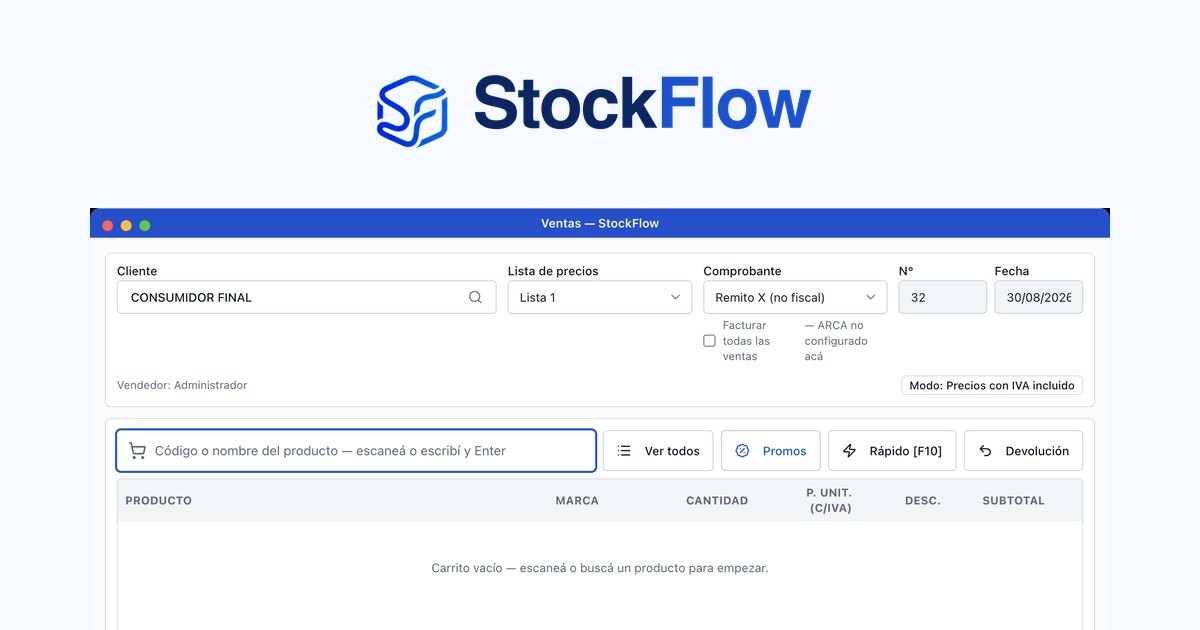
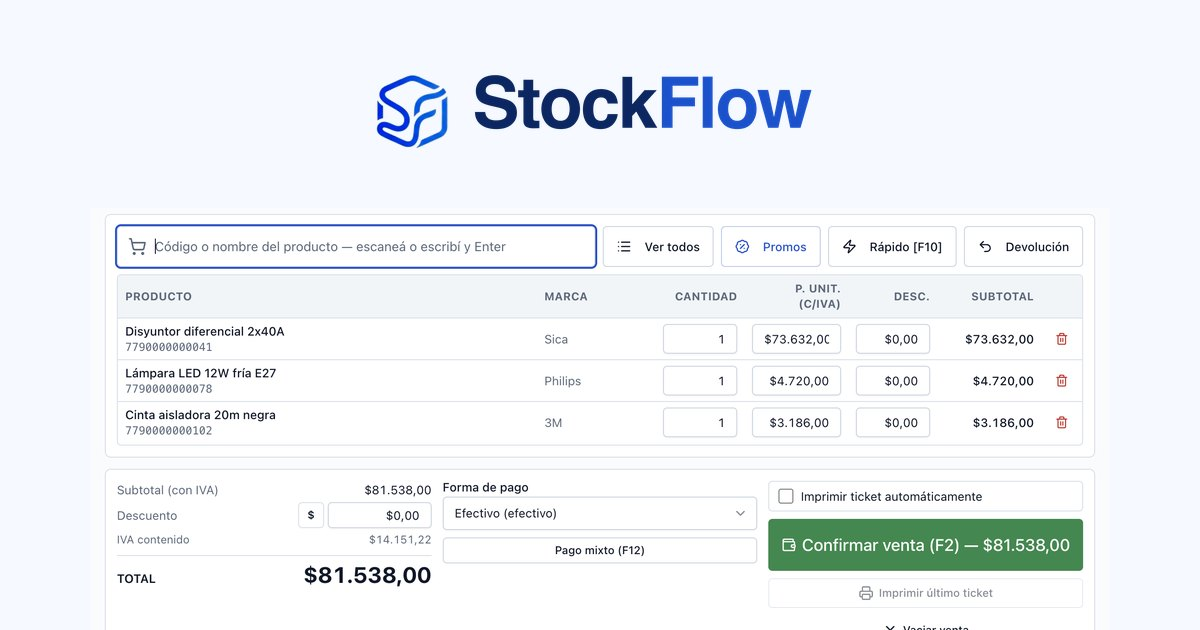
feat(landing): Ventas con carrito cargado, recortada sin la franja de ARCA
img/pdv.png ahora es el recorte de v4-02-carrito.png (fuente en src-shots/)
desde justo arriba del buscador: quedan buscador, los 3 artículos con código y
marca, y el pie con subtotal, IVA contenido y el botón verde de confirmar. La
franja Cliente/Comprobante con '— ARCA no configurado acá' queda afuera.

Notas del showcase de Ventas con lo visible: código y marca, IVA contenido
$14.151,22 discriminado, F2 con total $81.538,00. og.jpg regenerado desde el
recorte (ya no muestra el carrito vacío).

diff --git a/marketing/landing/artifact3.html b/marketing/landing/artifact3.html
@@ -382,7 +382,7 @@ h1.big{font-size:clamp(36px,4.6vw,54px);margin:20px 0 0;} h1.big .hl{color:var(-
  <div class="shotwrap">
   <div class="cfbox">
    <div class="cfrow">
-    <div class="cf" id="cf"><figure class='cf-card' data-i='0'><div class='cwin'><div class='gbar'><span class='gdz'><i></i><i></i><i></i></span><span class='gbt'>StockFlow — Pantalla principal</span><span class='gzoom'>⤢</span></div><img loading='lazy' src='assets/panel-principal-1400q80.webp' width='1400' height='778' alt='Pantalla principal de StockFlow con todos los módulos del sistema'/></div></figure><figure class='cf-card' data-i='1'><div class='cwin'><div class='gbar'><span class='gdz'><i></i><i></i><i></i></span><span class='gbt'>StockFlow — Ventas — Punto de venta</span><span class='gzoom'>⤢</span></div><img loading='lazy' src='assets/pdv-1400q80.webp' width='1400' height='916' alt='Punto de venta de StockFlow cobrando artículos de ferretería'/></div></figure><figure class='cf-card' data-i='2'><div class='cwin'><div class='gbar'><span class='gdz'><i></i><i></i><i></i></span><span class='gbt'>StockFlow — Artículos y precios</span><span class='gzoom'>⤢</span></div><img loading='lazy' src='assets/articulos-1400q80.webp' width='1400' height='887' alt='Listado de artículos de ferretería con stock, familias y tres listas de precios'/></div></figure><figure class='cf-card' data-i='3'><div class='cwin'><div class='gbar'><span class='gdz'><i></i><i></i><i></i></span><span class='gbt'>StockFlow — Cuentas corrientes</span><span class='gzoom'>⤢</span></div><img loading='lazy' src='assets/ctacte-1400q80.webp' width='1400' height='916' alt='Cuentas corrientes con los saldos de cada cliente al día'/></div></figure><figure class='cf-card' data-i='4'><div class='cwin'><div class='gbar'><span class='gdz'><i></i><i></i><i></i></span><span class='gbt'>StockFlow — Presupuestos</span><span class='gzoom'>⤢</span></div><img loading='lazy' src='assets/presupuestos-crear-1400q80.webp' width='1400' height='916' alt='Pantalla de presupuestos de StockFlow listos para convertir en venta'/></div></figure><figure class='cf-card' data-i='5'><div class='cwin'><div class='gbar'><span class='gdz'><i></i><i></i><i></i></span><span class='gbt'>StockFlow — Estadísticas</span><span class='gzoom'>⤢</span></div><img loading='lazy' src='assets/estadisticas-1400q80.webp' width='1400' height='916' alt='Estadísticas de ventas con margen bruto y ticket promedio'/></div></figure><figure class='cf-card' data-i='6'><div class='cwin'><div class='gbar'><span class='gdz'><i></i><i></i><i></i></span><span class='gbt'>StockFlow — Caja diaria</span><span class='gzoom'>⤢</span></div><img loading='lazy' src='assets/caja-abierta-resumen-1400q80.webp' width='1400' height='916' alt='Caja diaria con el efectivo esperado y la comisión de tarjeta descontada'/></div></figure><figure class='cf-card' data-i='7'><div class='cwin'><div class='gbar'><span class='gdz'><i></i><i></i><i></i></span><span class='gbt'>StockFlow — Contabilidad y Libro IVA</span><span class='gzoom'>⤢</span></div><img loading='lazy' src='assets/contabilidad-resumen-1400q80.webp' width='1400' height='916' alt='Resumen contable y Libro IVA generados por StockFlow'/></div></figure><figure class='cf-card' data-i='8'><div class='cwin'><div class='gbar'><span class='gdz'><i></i><i></i><i></i></span><span class='gbt'>StockFlow — Compras</span><span class='gzoom'>⤢</span></div><img loading='lazy' src='assets/compras-principal-1400q80.webp' width='1400' height='916' alt='Pantalla de compras con órdenes a proveedores'/></div></figure><figure class='cf-card' data-i='9'><div class='cwin'><div class='gbar'><span class='gdz'><i></i><i></i><i></i></span><span class='gbt'>StockFlow — Clientes</span><span class='gzoom'>⤢</span></div><img loading='lazy' src='assets/clientes-listado-1400q80.webp' width='1400' height='916' alt='Listado de clientes del comercio en StockFlow'/></div></figure></div>
+    <div class="cf" id="cf"><figure class='cf-card' data-i='0'><div class='cwin'><div class='gbar'><span class='gdz'><i></i><i></i><i></i></span><span class='gbt'>StockFlow — Pantalla principal</span><span class='gzoom'>⤢</span></div><img loading='lazy' src='assets/panel-principal-1400q80.webp' width='1400' height='778' alt='Pantalla principal de StockFlow con todos los módulos del sistema'/></div></figure><figure class='cf-card' data-i='1'><div class='cwin'><div class='gbar'><span class='gdz'><i></i><i></i><i></i></span><span class='gbt'>StockFlow — Ventas — Punto de venta</span><span class='gzoom'>⤢</span></div><img loading='lazy' src='assets/pdv-1400q80.webp' width='1400' height='636' alt='Punto de venta de StockFlow cobrando artículos de ferretería'/></div></figure><figure class='cf-card' data-i='2'><div class='cwin'><div class='gbar'><span class='gdz'><i></i><i></i><i></i></span><span class='gbt'>StockFlow — Artículos y precios</span><span class='gzoom'>⤢</span></div><img loading='lazy' src='assets/articulos-1400q80.webp' width='1400' height='887' alt='Listado de artículos de ferretería con stock, familias y tres listas de precios'/></div></figure><figure class='cf-card' data-i='3'><div class='cwin'><div class='gbar'><span class='gdz'><i></i><i></i><i></i></span><span class='gbt'>StockFlow — Cuentas corrientes</span><span class='gzoom'>⤢</span></div><img loading='lazy' src='assets/ctacte-1400q80.webp' width='1400' height='916' alt='Cuentas corrientes con los saldos de cada cliente al día'/></div></figure><figure class='cf-card' data-i='4'><div class='cwin'><div class='gbar'><span class='gdz'><i></i><i></i><i></i></span><span class='gbt'>StockFlow — Presupuestos</span><span class='gzoom'>⤢</span></div><img loading='lazy' src='assets/presupuestos-crear-1400q80.webp' width='1400' height='916' alt='Pantalla de presupuestos de StockFlow listos para convertir en venta'/></div></figure><figure class='cf-card' data-i='5'><div class='cwin'><div class='gbar'><span class='gdz'><i></i><i></i><i></i></span><span class='gbt'>StockFlow — Estadísticas</span><span class='gzoom'>⤢</span></div><img loading='lazy' src='assets/estadisticas-1400q80.webp' width='1400' height='916' alt='Estadísticas de ventas con margen bruto y ticket promedio'/></div></figure><figure class='cf-card' data-i='6'><div class='cwin'><div class='gbar'><span class='gdz'><i></i><i></i><i></i></span><span class='gbt'>StockFlow — Caja diaria</span><span class='gzoom'>⤢</span></div><img loading='lazy' src='assets/caja-abierta-resumen-1400q80.webp' width='1400' height='916' alt='Caja diaria con el efectivo esperado y la comisión de tarjeta descontada'/></div></figure><figure class='cf-card' data-i='7'><div class='cwin'><div class='gbar'><span class='gdz'><i></i><i></i><i></i></span><span class='gbt'>StockFlow — Contabilidad y Libro IVA</span><span class='gzoom'>⤢</span></div><img loading='lazy' src='assets/contabilidad-resumen-1400q80.webp' width='1400' height='916' alt='Resumen contable y Libro IVA generados por StockFlow'/></div></figure><figure class='cf-card' data-i='8'><div class='cwin'><div class='gbar'><span class='gdz'><i></i><i></i><i></i></span><span class='gbt'>StockFlow — Compras</span><span class='gzoom'>⤢</span></div><img loading='lazy' src='assets/compras-principal-1400q80.webp' width='1400' height='916' alt='Pantalla de compras con órdenes a proveedores'/></div></figure><figure class='cf-card' data-i='9'><div class='cwin'><div class='gbar'><span class='gdz'><i></i><i></i><i></i></span><span class='gbt'>StockFlow — Clientes</span><span class='gzoom'>⤢</span></div><img loading='lazy' src='assets/clientes-listado-1400q80.webp' width='1400' height='916' alt='Listado de clientes del comercio en StockFlow'/></div></figure></div>
    </div>
    <div class="gdots" id="gdots"><button class='gdot' data-i='0' aria-label='Pantalla 1'></button><button class='gdot' data-i='1' aria-label='Pantalla 2'></button><button class='gdot' data-i='2' aria-label='Pantalla 3'></button><button class='gdot' data-i='3' aria-label='Pantalla 4'></button><button class='gdot' data-i='4' aria-label='Pantalla 5'></button><button class='gdot' data-i='5' aria-label='Pantalla 6'></button><button class='gdot' data-i='6' aria-label='Pantalla 7'></button><button class='gdot' data-i='7' aria-label='Pantalla 8'></button><button class='gdot' data-i='8' aria-label='Pantalla 9'></button><button class='gdot' data-i='9' aria-label='Pantalla 10'></button></div>
   </div>
@@ -432,7 +432,7 @@ h1.big{font-size:clamp(36px,4.6vw,54px);margin:20px 0 0;} h1.big .hl{color:var(-
   <nav class="anchors"><a href="#sc-ventas">Ventas</a><a href="#sc-precios">Precios</a><a href="#sc-cuentas">Cuentas</a><a href="#sc-caja">Caja</a><a href="#sc-presu">Presupuestos</a><a href="#sc-ganas">Rentabilidad</a></nav>
  </div>
  <div class="sc-wrap">
- <div class='show sc rv' id='sc-ventas'><div class='st'><span class='sc-k'>Punto de venta</span><h3>Cobrá en segundos, con el IVA ya calculado.</h3><p>Escaneás el código o escribís el nombre y el producto entra con su precio. Confirmás con F2 y el comprobante queda listo. Si se corta internet, seguís cobrando sin interrupciones.</p><span class='sc-solve'>Sin demoras en el mostrador</span><ul class='sc-notes'><li><b>Escaneá o escribí y Enter</b> — el producto entra con su precio de lista</li><li><b>F2 confirma, F12 pago mixto</b> — efectivo y tarjeta en una misma venta</li><li><b>Precios con IVA incluido</b> — sin cuentas manuales en el mostrador</li></ul></div><div class='si'><figure class='cwin'><div class='gbar'><span class='gdz'><i></i><i></i><i></i></span><span class='gbt'>StockFlow — Ventas</span></div><img loading='lazy' src='assets/pdv-1400q80.webp' width='1400' height='916' alt='Punto de venta de StockFlow listo para cobrar, con búsqueda por código y pago mixto'/></figure></div></div>
+ <div class='show sc rv' id='sc-ventas'><div class='st'><span class='sc-k'>Punto de venta</span><h3>Cobrá en segundos, con el IVA ya calculado.</h3><p>Escaneás el código o escribís el nombre y el producto entra con su precio. Confirmás con F2 y el comprobante queda listo. Si se corta internet, seguís cobrando sin interrupciones.</p><span class='sc-solve'>Sin demoras en el mostrador</span><ul class='sc-notes'><li><b>Código y marca a la vista</b> — tres artículos cargados escaneando o por nombre</li><li><b>IVA contenido discriminado</b> — $&#8202;14.151,22 ya calculado, sin cuentas manuales</li><li><b>F2 y listo</b> — confirmás con el total exacto: $&#8202;81.538,00</li></ul></div><div class='si'><figure class='cwin'><div class='gbar'><span class='gdz'><i></i><i></i><i></i></span><span class='gbt'>StockFlow — Ventas</span></div><img loading='lazy' src='assets/pdv-1400q80.webp' width='1400' height='636' alt='Punto de venta de StockFlow con tres artículos cargados, IVA discriminado y el total listo para confirmar con F2'/></figure></div></div>
  <div class='show sc rv' id='sc-precios'><div class='st'><span class='sc-k'>Actualización de precios</span><h3>Actualizá toda la lista en un clic.</h3><p>Seleccionás la lista, ingresás el porcentaje y ves cada cambio antes de confirmarlo: precio actual, nuevo y diferencia, artículo por artículo.</p><span class='sc-solve'>Sin repreciar artículo por artículo</span><ul class='sc-notes'><li><b>+18% con vista previa</b> — actual, nuevo y diferencia de cada artículo</li><li><b>44 cambios en un clic</b> — revisás y confirmás antes de aplicar</li><li><b>Hasta 3 listas</b> — mostrador, mayorista y especial</li></ul></div><div class='si'><figure class='cwin'><div class='gbar'><span class='gdz'><i></i><i></i><i></i></span><span class='gbt'>StockFlow — Actualización de precios</span></div><img loading='lazy' src='assets/precios-preview-1200q64.webp' width='1200' height='785' alt='Vista previa de actualización de precios en StockFlow: precio actual, nuevo y diferencia por artículo'/></figure></div></div>
  <div class='show sc rv' id='sc-cuentas'><div class='st'><span class='sc-k'>Cuentas corrientes</span><h3>Sabés quién te debe, cuánto y desde cuándo.</h3><p>Cada cliente con su saldo actualizado. Registrás la cobranza y la cuenta se ajusta automáticamente, sin deudas anotadas en papeles sueltos.</p><span class='sc-solve'>Sin cuadernos de deuda</span><ul class='sc-notes'><li><b>$&#8202;13.400</b> — el saldo de cada cliente, siempre a la vista</li><li><b>Último pago y comprobantes</b> — cada cuenta con su historia completa</li><li><b>5 con saldo</b> — sabés a quién cobrarle de un vistazo</li></ul></div><div class='si'><figure class='cwin'><div class='gbar'><span class='gdz'><i></i><i></i><i></i></span><span class='gbt'>StockFlow — Cuentas Corrientes</span></div><img loading='lazy' src='assets/ctacte-1400q80.webp' width='1400' height='916' alt='Cuentas corrientes de StockFlow con cinco clientes con saldo y su último pago'/></figure></div></div>
  <div class='show sc rv' id='sc-caja'><div class='st'><span class='sc-k'>Caja y arqueo</span><h3>Al cierre sabés exactamente cuánto debe haber en caja.</h3><p>Cada medio de pago discriminado, con la comisión de tarjeta ya descontada y el efectivo esperado calculado. Cerrás la caja con el monto exacto, sin estimaciones.</p><span class='sc-solve'>Sin descuadres al cierre</span><ul class='sc-notes'><li><b>$&#8202;170.000 esperados en el cajón</b> — el monto exacto para el arqueo</li><li><b>Comisión descontada</b> — el neto real de cada medio de pago</li><li><b>Cada movimiento con su hora</b> — ventas, señas y retiros del día</li></ul></div><div class='si'><figure class='cwin'><div class='gbar'><span class='gdz'><i></i><i></i><i></i></span><span class='gbt'>StockFlow — Caja diaria</span></div><img loading='lazy' src='assets/caja-abierta-resumen-1400q72.webp' width='1400' height='916' alt='Caja diaria de StockFlow con efectivo esperado, desglose por medio de pago y comisión descontada'/></figure></div></div>

diff --git a/marketing/landing/index3.html b/marketing/landing/index3.html
@@ -382,7 +382,7 @@ h1.big{font-size:clamp(36px,4.6vw,54px);margin:20px 0 0;} h1.big .hl{color:var(-
  <div class="shotwrap">
   <div class="cfbox">
    <div class="cfrow">
-    <div class="cf" id="cf"><figure class='cf-card' data-i='0'><div class='cwin'><div class='gbar'><span class='gdz'><i></i><i></i><i></i></span><span class='gbt'>StockFlow — Pantalla principal</span><span class='gzoom'>⤢</span></div><img loading='lazy' src='assets/panel-principal-1400q80.webp' width='1400' height='778' alt='Pantalla principal de StockFlow con todos los módulos del sistema'/></div></figure><figure class='cf-card' data-i='1'><div class='cwin'><div class='gbar'><span class='gdz'><i></i><i></i><i></i></span><span class='gbt'>StockFlow — Ventas — Punto de venta</span><span class='gzoom'>⤢</span></div><img loading='lazy' src='assets/pdv-1400q80.webp' width='1400' height='916' alt='Punto de venta de StockFlow cobrando artículos de ferretería'/></div></figure><figure class='cf-card' data-i='2'><div class='cwin'><div class='gbar'><span class='gdz'><i></i><i></i><i></i></span><span class='gbt'>StockFlow — Artículos y precios</span><span class='gzoom'>⤢</span></div><img loading='lazy' src='assets/articulos-1400q80.webp' width='1400' height='887' alt='Listado de artículos de ferretería con stock, familias y tres listas de precios'/></div></figure><figure class='cf-card' data-i='3'><div class='cwin'><div class='gbar'><span class='gdz'><i></i><i></i><i></i></span><span class='gbt'>StockFlow — Cuentas corrientes</span><span class='gzoom'>⤢</span></div><img loading='lazy' src='assets/ctacte-1400q80.webp' width='1400' height='916' alt='Cuentas corrientes con los saldos de cada cliente al día'/></div></figure><figure class='cf-card' data-i='4'><div class='cwin'><div class='gbar'><span class='gdz'><i></i><i></i><i></i></span><span class='gbt'>StockFlow — Presupuestos</span><span class='gzoom'>⤢</span></div><img loading='lazy' src='assets/presupuestos-crear-1400q80.webp' width='1400' height='916' alt='Pantalla de presupuestos de StockFlow listos para convertir en venta'/></div></figure><figure class='cf-card' data-i='5'><div class='cwin'><div class='gbar'><span class='gdz'><i></i><i></i><i></i></span><span class='gbt'>StockFlow — Estadísticas</span><span class='gzoom'>⤢</span></div><img loading='lazy' src='assets/estadisticas-1400q80.webp' width='1400' height='916' alt='Estadísticas de ventas con margen bruto y ticket promedio'/></div></figure><figure class='cf-card' data-i='6'><div class='cwin'><div class='gbar'><span class='gdz'><i></i><i></i><i></i></span><span class='gbt'>StockFlow — Caja diaria</span><span class='gzoom'>⤢</span></div><img loading='lazy' src='assets/caja-abierta-resumen-1400q80.webp' width='1400' height='916' alt='Caja diaria con el efectivo esperado y la comisión de tarjeta descontada'/></div></figure><figure class='cf-card' data-i='7'><div class='cwin'><div class='gbar'><span class='gdz'><i></i><i></i><i></i></span><span class='gbt'>StockFlow — Contabilidad y Libro IVA</span><span class='gzoom'>⤢</span></div><img loading='lazy' src='assets/contabilidad-resumen-1400q80.webp' width='1400' height='916' alt='Resumen contable y Libro IVA generados por StockFlow'/></div></figure><figure class='cf-card' data-i='8'><div class='cwin'><div class='gbar'><span class='gdz'><i></i><i></i><i></i></span><span class='gbt'>StockFlow — Compras</span><span class='gzoom'>⤢</span></div><img loading='lazy' src='assets/compras-principal-1400q80.webp' width='1400' height='916' alt='Pantalla de compras con órdenes a proveedores'/></div></figure><figure class='cf-card' data-i='9'><div class='cwin'><div class='gbar'><span class='gdz'><i></i><i></i><i></i></span><span class='gbt'>StockFlow — Clientes</span><span class='gzoom'>⤢</span></div><img loading='lazy' src='assets/clientes-listado-1400q80.webp' width='1400' height='916' alt='Listado de clientes del comercio en StockFlow'/></div></figure></div>
+    <div class="cf" id="cf"><figure class='cf-card' data-i='0'><div class='cwin'><div class='gbar'><span class='gdz'><i></i><i></i><i></i></span><span class='gbt'>StockFlow — Pantalla principal</span><span class='gzoom'>⤢</span></div><img loading='lazy' src='assets/panel-principal-1400q80.webp' width='1400' height='778' alt='Pantalla principal de StockFlow con todos los módulos del sistema'/></div></figure><figure class='cf-card' data-i='1'><div class='cwin'><div class='gbar'><span class='gdz'><i></i><i></i><i></i></span><span class='gbt'>StockFlow — Ventas — Punto de venta</span><span class='gzoom'>⤢</span></div><img loading='lazy' src='assets/pdv-1400q80.webp' width='1400' height='636' alt='Punto de venta de StockFlow cobrando artículos de ferretería'/></div></figure><figure class='cf-card' data-i='2'><div class='cwin'><div class='gbar'><span class='gdz'><i></i><i></i><i></i></span><span class='gbt'>StockFlow — Artículos y precios</span><span class='gzoom'>⤢</span></div><img loading='lazy' src='assets/articulos-1400q80.webp' width='1400' height='887' alt='Listado de artículos de ferretería con stock, familias y tres listas de precios'/></div></figure><figure class='cf-card' data-i='3'><div class='cwin'><div class='gbar'><span class='gdz'><i></i><i></i><i></i></span><span class='gbt'>StockFlow — Cuentas corrientes</span><span class='gzoom'>⤢</span></div><img loading='lazy' src='assets/ctacte-1400q80.webp' width='1400' height='916' alt='Cuentas corrientes con los saldos de cada cliente al día'/></div></figure><figure class='cf-card' data-i='4'><div class='cwin'><div class='gbar'><span class='gdz'><i></i><i></i><i></i></span><span class='gbt'>StockFlow — Presupuestos</span><span class='gzoom'>⤢</span></div><img loading='lazy' src='assets/presupuestos-crear-1400q80.webp' width='1400' height='916' alt='Pantalla de presupuestos de StockFlow listos para convertir en venta'/></div></figure><figure class='cf-card' data-i='5'><div class='cwin'><div class='gbar'><span class='gdz'><i></i><i></i><i></i></span><span class='gbt'>StockFlow — Estadísticas</span><span class='gzoom'>⤢</span></div><img loading='lazy' src='assets/estadisticas-1400q80.webp' width='1400' height='916' alt='Estadísticas de ventas con margen bruto y ticket promedio'/></div></figure><figure class='cf-card' data-i='6'><div class='cwin'><div class='gbar'><span class='gdz'><i></i><i></i><i></i></span><span class='gbt'>StockFlow — Caja diaria</span><span class='gzoom'>⤢</span></div><img loading='lazy' src='assets/caja-abierta-resumen-1400q80.webp' width='1400' height='916' alt='Caja diaria con el efectivo esperado y la comisión de tarjeta descontada'/></div></figure><figure class='cf-card' data-i='7'><div class='cwin'><div class='gbar'><span class='gdz'><i></i><i></i><i></i></span><span class='gbt'>StockFlow — Contabilidad y Libro IVA</span><span class='gzoom'>⤢</span></div><img loading='lazy' src='assets/contabilidad-resumen-1400q80.webp' width='1400' height='916' alt='Resumen contable y Libro IVA generados por StockFlow'/></div></figure><figure class='cf-card' data-i='8'><div class='cwin'><div class='gbar'><span class='gdz'><i></i><i></i><i></i></span><span class='gbt'>StockFlow — Compras</span><span class='gzoom'>⤢</span></div><img loading='lazy' src='assets/compras-principal-1400q80.webp' width='1400' height='916' alt='Pantalla de compras con órdenes a proveedores'/></div></figure><figure class='cf-card' data-i='9'><div class='cwin'><div class='gbar'><span class='gdz'><i></i><i></i><i></i></span><span class='gbt'>StockFlow — Clientes</span><span class='gzoom'>⤢</span></div><img loading='lazy' src='assets/clientes-listado-1400q80.webp' width='1400' height='916' alt='Listado de clientes del comercio en StockFlow'/></div></figure></div>
    </div>
    <div class="gdots" id="gdots"><button class='gdot' data-i='0' aria-label='Pantalla 1'></button><button class='gdot' data-i='1' aria-label='Pantalla 2'></button><button class='gdot' data-i='2' aria-label='Pantalla 3'></button><button class='gdot' data-i='3' aria-label='Pantalla 4'></button><button class='gdot' data-i='4' aria-label='Pantalla 5'></button><button class='gdot' data-i='5' aria-label='Pantalla 6'></button><button class='gdot' data-i='6' aria-label='Pantalla 7'></button><button class='gdot' data-i='7' aria-label='Pantalla 8'></button><button class='gdot' data-i='8' aria-label='Pantalla 9'></button><button class='gdot' data-i='9' aria-label='Pantalla 10'></button></div>
   </div>
@@ -432,7 +432,7 @@ h1.big{font-size:clamp(36px,4.6vw,54px);margin:20px 0 0;} h1.big .hl{color:var(-
   <nav class="anchors"><a href="#sc-ventas">Ventas</a><a href="#sc-precios">Precios</a><a href="#sc-cuentas">Cuentas</a><a href="#sc-caja">Caja</a><a href="#sc-presu">Presupuestos</a><a href="#sc-ganas">Rentabilidad</a></nav>
  </div>
  <div class="sc-wrap">
- <div class='show sc rv' id='sc-ventas'><div class='st'><span class='sc-k'>Punto de venta</span><h3>Cobrá en segundos, con el IVA ya calculado.</h3><p>Escaneás el código o escribís el nombre y el producto entra con su precio. Confirmás con F2 y el comprobante queda listo. Si se corta internet, seguís cobrando sin interrupciones.</p><span class='sc-solve'>Sin demoras en el mostrador</span><ul class='sc-notes'><li><b>Escaneá o escribí y Enter</b> — el producto entra con su precio de lista</li><li><b>F2 confirma, F12 pago mixto</b> — efectivo y tarjeta en una misma venta</li><li><b>Precios con IVA incluido</b> — sin cuentas manuales en el mostrador</li></ul></div><div class='si'><figure class='cwin'><div class='gbar'><span class='gdz'><i></i><i></i><i></i></span><span class='gbt'>StockFlow — Ventas</span></div><img loading='lazy' src='assets/pdv-1400q80.webp' width='1400' height='916' alt='Punto de venta de StockFlow listo para cobrar, con búsqueda por código y pago mixto'/></figure></div></div>
+ <div class='show sc rv' id='sc-ventas'><div class='st'><span class='sc-k'>Punto de venta</span><h3>Cobrá en segundos, con el IVA ya calculado.</h3><p>Escaneás el código o escribís el nombre y el producto entra con su precio. Confirmás con F2 y el comprobante queda listo. Si se corta internet, seguís cobrando sin interrupciones.</p><span class='sc-solve'>Sin demoras en el mostrador</span><ul class='sc-notes'><li><b>Código y marca a la vista</b> — tres artículos cargados escaneando o por nombre</li><li><b>IVA contenido discriminado</b> — $&#8202;14.151,22 ya calculado, sin cuentas manuales</li><li><b>F2 y listo</b> — confirmás con el total exacto: $&#8202;81.538,00</li></ul></div><div class='si'><figure class='cwin'><div class='gbar'><span class='gdz'><i></i><i></i><i></i></span><span class='gbt'>StockFlow — Ventas</span></div><img loading='lazy' src='assets/pdv-1400q80.webp' width='1400' height='636' alt='Punto de venta de StockFlow con tres artículos cargados, IVA discriminado y el total listo para confirmar con F2'/></figure></div></div>
  <div class='show sc rv' id='sc-precios'><div class='st'><span class='sc-k'>Actualización de precios</span><h3>Actualizá toda la lista en un clic.</h3><p>Seleccionás la lista, ingresás el porcentaje y ves cada cambio antes de confirmarlo: precio actual, nuevo y diferencia, artículo por artículo.</p><span class='sc-solve'>Sin repreciar artículo por artículo</span><ul class='sc-notes'><li><b>+18% con vista previa</b> — actual, nuevo y diferencia de cada artículo</li><li><b>44 cambios en un clic</b> — revisás y confirmás antes de aplicar</li><li><b>Hasta 3 listas</b> — mostrador, mayorista y especial</li></ul></div><div class='si'><figure class='cwin'><div class='gbar'><span class='gdz'><i></i><i></i><i></i></span><span class='gbt'>StockFlow — Actualización de precios</span></div><img loading='lazy' src='assets/precios-preview-1200q64.webp' width='1200' height='785' alt='Vista previa de actualización de precios en StockFlow: precio actual, nuevo y diferencia por artículo'/></figure></div></div>
  <div class='show sc rv' id='sc-cuentas'><div class='st'><span class='sc-k'>Cuentas corrientes</span><h3>Sabés quién te debe, cuánto y desde cuándo.</h3><p>Cada cliente con su saldo actualizado. Registrás la cobranza y la cuenta se ajusta automáticamente, sin deudas anotadas en papeles sueltos.</p><span class='sc-solve'>Sin cuadernos de deuda</span><ul class='sc-notes'><li><b>$&#8202;13.400</b> — el saldo de cada cliente, siempre a la vista</li><li><b>Último pago y comprobantes</b> — cada cuenta con su historia completa</li><li><b>5 con saldo</b> — sabés a quién cobrarle de un vistazo</li></ul></div><div class='si'><figure class='cwin'><div class='gbar'><span class='gdz'><i></i><i></i><i></i></span><span class='gbt'>StockFlow — Cuentas Corrientes</span></div><img loading='lazy' src='assets/ctacte-1400q80.webp' width='1400' height='916' alt='Cuentas corrientes de StockFlow con cinco clientes con saldo y su último pago'/></figure></div></div>
  <div class='show sc rv' id='sc-caja'><div class='st'><span class='sc-k'>Caja y arqueo</span><h3>Al cierre sabés exactamente cuánto debe haber en caja.</h3><p>Cada medio de pago discriminado, con la comisión de tarjeta ya descontada y el efectivo esperado calculado. Cerrás la caja con el monto exacto, sin estimaciones.</p><span class='sc-solve'>Sin descuadres al cierre</span><ul class='sc-notes'><li><b>$&#8202;170.000 esperados en el cajón</b> — el monto exacto para el arqueo</li><li><b>Comisión descontada</b> — el neto real de cada medio de pago</li><li><b>Cada movimiento con su hora</b> — ventas, señas y retiros del día</li></ul></div><div class='si'><figure class='cwin'><div class='gbar'><span class='gdz'><i></i><i></i><i></i></span><span class='gbt'>StockFlow — Caja diaria</span></div><img loading='lazy' src='assets/caja-abierta-resumen-1400q72.webp' width='1400' height='916' alt='Caja diaria de StockFlow con efectivo esperado, desglose por medio de pago y comisión descontada'/></figure></div></div>

diff --git a/marketing/landing/build_landing.py b/marketing/landing/build_landing.py
@@ -590,7 +590,7 @@ BODY=f"""
   <nav class="anchors"><a href="#sc-ventas">Ventas</a><a href="#sc-precios">Precios</a><a href="#sc-cuentas">Cuentas</a><a href="#sc-caja">Caja</a><a href="#sc-presu">Presupuestos</a><a href="#sc-ganas">Rentabilidad</a></nav>
  </div>
  <div class="sc-wrap">
- {sc('sc-ventas',False,'Punto de venta','Cobrá en segundos, con el IVA ya calculado.','Escaneás el código o escribís el nombre y el producto entra con su precio. Confirmás con F2 y el comprobante queda listo. Si se corta internet, seguís cobrando sin interrupciones.','Sin demoras en el mostrador','Ventas',PDV,[('Escaneá o escribí y Enter',' — el producto entra con su precio de lista'),('F2 confirma, F12 pago mixto',' — efectivo y tarjeta en una misma venta'),('Precios con IVA incluido',' — sin cuentas manuales en el mostrador')],alt='Punto de venta de StockFlow listo para cobrar, con búsqueda por código y pago mixto')}
+ {sc('sc-ventas',False,'Punto de venta','Cobrá en segundos, con el IVA ya calculado.','Escaneás el código o escribís el nombre y el producto entra con su precio. Confirmás con F2 y el comprobante queda listo. Si se corta internet, seguís cobrando sin interrupciones.','Sin demoras en el mostrador','Ventas',PDV,[('Código y marca a la vista',' — tres artículos cargados escaneando o por nombre'),('IVA contenido discriminado',' — $&#8202;14.151,22 ya calculado, sin cuentas manuales'),('F2 y listo',' — confirmás con el total exacto: $&#8202;81.538,00')],alt='Punto de venta de StockFlow con tres artículos cargados, IVA discriminado y el total listo para confirmar con F2')}
  {sc('sc-precios',False,'Actualización de precios','Actualizá toda la lista en un clic.','Seleccionás la lista, ingresás el porcentaje y ves cada cambio antes de confirmarlo: precio actual, nuevo y diferencia, artículo por artículo.','Sin repreciar artículo por artículo','Actualización de precios',PRECIOS,[('+18% con vista previa',' — actual, nuevo y diferencia de cada artículo'),('44 cambios en un clic',' — revisás y confirmás antes de aplicar'),('Hasta 3 listas',' — mostrador, mayorista y especial')],alt='Vista previa de actualización de precios en StockFlow: precio actual, nuevo y diferencia por artículo')}
  {sc('sc-cuentas',False,'Cuentas corrientes','Sabés quién te debe, cuánto y desde cuándo.','Cada cliente con su saldo actualizado. Registrás la cobranza y la cuenta se ajusta automáticamente, sin deudas anotadas en papeles sueltos.','Sin cuadernos de deuda','Cuentas Corrientes',CTA_,[('$&#8202;13.400',' — el saldo de cada cliente, siempre a la vista'),('Último pago y comprobantes',' — cada cuenta con su historia completa'),('5 con saldo',' — sabés a quién cobrarle de un vistazo')],alt='Cuentas corrientes de StockFlow con cinco clientes con saldo y su último pago')}
  {sc('sc-caja',False,'Caja y arqueo','Al cierre sabés exactamente cuánto debe haber en caja.','Cada medio de pago discriminado, con la comisión de tarjeta ya descontada y el efectivo esperado calculado. Cerrás la caja con el monto exacto, sin estimaciones.','Sin descuadres al cierre','Caja diaria',CAJA2,[('$&#8202;170.000 esperados en el cajón',' — el monto exacto para el arqueo'),('Comisión descontada',' — el neto real de cada medio de pago'),('Cada movimiento con su hora',' — ventas, señas y retiros del día')],alt='Caja diaria de StockFlow con efectivo esperado, desglose por medio de pago y comisión descontada')}
